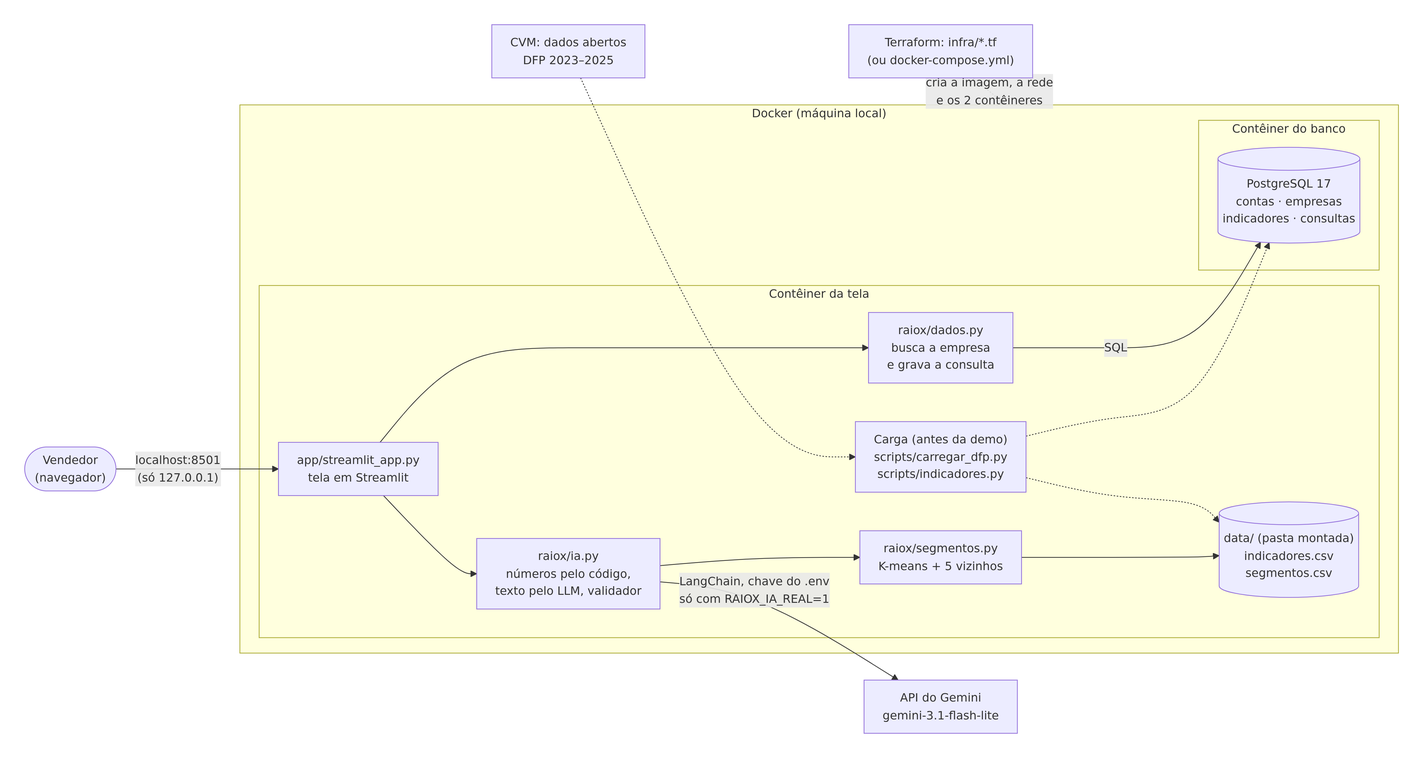
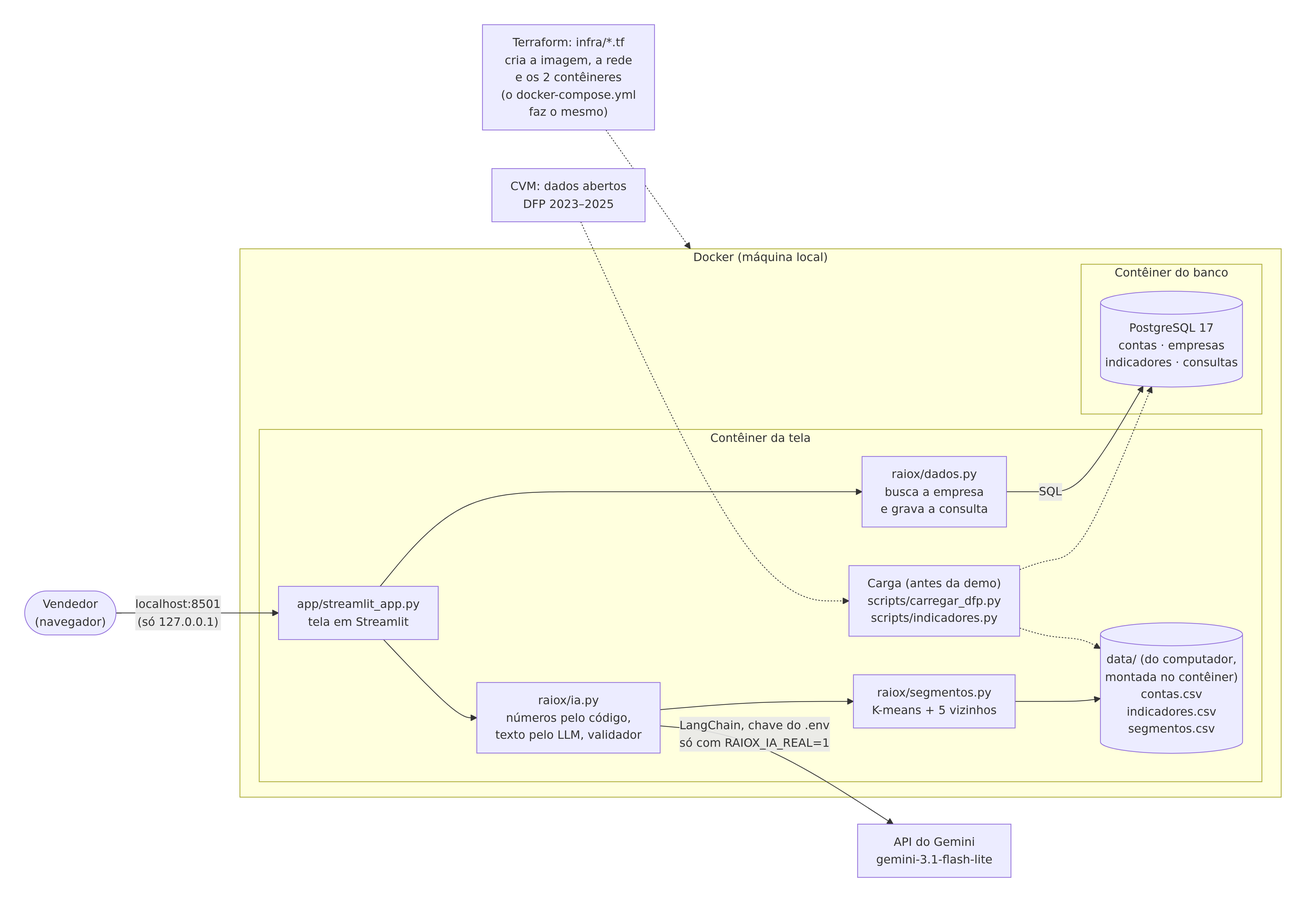
Achados do revisor no PR #55: seta do Terraform visível, data/ como pasta do computador, Terraform como a infraestrutura exigida, R9 em 🟡; issues #56 e #57

Changed region(s): [[0.0312, 0.0309, 0.9983, 0.9898], [0.8424, 0.464, 0.8736, 0.4949]]

diff --git a/docs/PLANO.md b/docs/PLANO.md
@@ -26,6 +26,8 @@ MA3, de 03/11, continuam abaixo). Na `main`: PRs #1 a #16, #19 a #41, o #46 (MA3
 **Aberto:** o #49 (Eduardo, rascunho do MA6) e o #55 (MG5, o PR desta nota).
 Issues abertas: #43, #45 e #50 (Eduardo; a #50: o validador deixa passar "dobrou", "triplicou", "um quarto") e **#53 (Marcos,
 achada pela EDA):** a escala errada no primeiro ano da base escapa da limpeza, e a NTS aparece com crescimento de +107.154%.
+Do revisor no #55 (MG5): **#56 (Miguel)**, a tela diz que os números vêm do PostgreSQL, mas vêm da `data/indicadores.csv`; e
+**#57 (Eduardo)**, os guias criam o ambiente com `python` ou `python3`, que pode não ser o 3.14.
 Testes na branch da MG5: 250 passed, nenhum pulado (Linux do Miguel, PostgreSQL do compose ligado, 04/11 ~21h).
 A versão longa desta seção, com o detalhe de cada PR até 03/11, ficou no Git: `git show 9f85bc9:docs/PLANO.md`.
 O resumo de cada dia está no [HISTORICO.md](HISTORICO.md).
@@ -78,17 +80,20 @@ O resumo de cada dia está no [HISTORICO.md](HISTORICO.md).
   conserto só pela receita não o pega. FASA, TRV XLIII e Azevedo & Travassos têm outros saltos; nenhum foi olhado na CVM ainda.
 - **MG5 (Miguel, PR #55, 04/11): a arquitetura no README** (`guia_projeto_final.pdf` §6: "README.md detalhando a arquitetura,
   pré-requisitos e instruções de execução"; §3, minutos 3–6). Seção "Arquitetura" com o diagrama em Mermaid (o GitHub desenha
-  sozinho): os 2 contêineres (tela com `app/` e `raiox/`; banco com o PostgreSQL 17), a `data/` montada, a API do Gemini, a CVM e
-  o Terraform (ou o compose) que cria tudo; linhas cheias a cada raio-x, tracejadas antes da demo; 6 frases embaixo. O mesmo
-  desenho em `docs/arquitetura.png` (4611×2457, gerado do bloco do README com o Mermaid 11.4.1), para o MA6 e o deck. Seção
-  "Pré-requisitos" com os 3 jeitos de rodar. **Conserto:** o README mandava `python -m venv`, mas no Linux do Miguel `python` não
-  existe e o `python3` é o 3.12; agora é `python3.14 -m venv .venv`. `tests/test_readme.py` (3 testes): o diagrama só cita arquivos
-  que existem e o modelo de `raiox/ia.py:28`; estragado de propósito, falha. **Não conferido:** o desenho do Mermaid na página
-  do GitHub e o "pronto quando" (um colega entender o fluxo lendo o README).
+  sozinho): os 2 contêineres (tela com `app/` e `raiox/`; banco com o PostgreSQL 17), a `data/` (pasta do computador montada na
+  tela), a API do Gemini, a CVM e o Terraform que cria tudo (o compose faz o mesmo); linhas cheias a cada raio-x, tracejadas
+  antes da demo; 6 frases embaixo. O mesmo desenho em `docs/arquitetura.png` (4231×2923, gerado do bloco do README com o
+  Mermaid 11.4.1), para o MA6 e o deck. Seção "Pré-requisitos" com os 3 jeitos de rodar, o Terraform como a infraestrutura
+  exigida (`requisitos_projeto.MD`, Aplicação). **Conserto:** o README mandava `python -m venv`, mas no Linux do Miguel `python`
+  não existe e o `python3` é o 3.12; agora é `python3.14 -m venv .venv` (os outros guias: #57). `tests/test_readme.py` (3 testes):
+  o diagrama só cita arquivos que existem e o modelo de `raiox/ia.py:28`; estragado de propósito, falha. **Revisor: ATENÇÃO**,
+  corrigido no PR: a seta do Terraform sumia sob o rótulo; a `data/` parecia dentro do Docker; "escolha um" lia o Terraform como
+  opcional; a referência de linha no HISTORICO. Fora do PR: #56 e #57. **Não conferido:** o desenho do Mermaid na página do
+  GitHub (por isso a R9 fica 🟡) e o "pronto quando" (um colega entender o fluxo lendo o README).
 - **Testes:** 250 passed, nenhum pulado (Linux do Miguel, com o PostgreSQL do compose ligado, branch da MG5, 04/11).
   No Windows do Marcos, 241 passed com `PYTHONUTF8=1` (03/11 ~12h, branch do #46); sem ele, 8 testes das travas falham: issue #45 (abaixo).
 - **Textos-base prontos:** `docs/justificativa.md` (ED8; falta o Marcos ler) e `docs/etica.md` (base da NA5).
-- No Mac, o Terraform só acha o Docker com `export DOCKER_HOST=unix://$HOME/.docker/run/docker.sock` (`README.md:233`).
+- No Mac, o Terraform só acha o Docker com `export DOCKER_HOST=unix://$HOME/.docker/run/docker.sock` (`README.md:235`).
 
 ### MA3 (Marcos, 03/11): PR #46, que fechou as issues #42 e #17 (mesclado em 03/11)
 - **C1 e C2** (os 3 commits de 10h09 da branch `marcos-corrige-s1-s2`): a busca devolve só companhias ativas e com indicadores,
@@ -138,16 +143,17 @@ O resumo de cada dia está no [HISTORICO.md](HISTORICO.md).
   revisar o rascunho do MA6 do Eduardo (sáb 07/11) → trocar a citação do `raiox/limpeza.py` para a seção "Dados e limpeza" do
   `docs/documentacao.md` e tirar o `docs/Raio-X Comercial.pdf` (depois do MA6). Um PR pequeno, com o ok do Eduardo, tirando
   `verificar_automatico.py` e `yfinance` (cortados na seção 7) e o `scripts/graficos.py` (a EDA já cobre o que ele fazia); no mesmo
-  PR, sai a linha do `verificar_automatico.py` do README ("Como rodar", `README.md:267`). Ler a `docs/justificativa.md` (ED8).
+  PR, sai a linha do `verificar_automatico.py` do README ("Como rodar", `README.md:269`). Ler a `docs/justificativa.md` (ED8).
 - **Miguel:** ✅ MG4b (#47: #38, #39 e #44) → ✅ recarga da CVM no banco do compose (04/11, com o contorno da #48) → ✅ MG5 diagrama
-  e README (#55, 04/11; pedir a um colega que leia a seção "Arquitetura" e conferir o desenho na página do PR) → MG6 roteiro e
-  vídeo v0 (qui 05/11), gravado no Mac do Eduardo (o computador da banca). Avisar o grupo das mudanças em pastas comuns: `README.md`,
+  e README (#55, 04/11; pedir a um colega que leia a seção "Arquitetura" e conferir o desenho na página do PR) → **MG5b: issue
+  #56** (a frase da tela sobre a origem dos números; qui 05/11, antes do vídeo) → MG6 roteiro e vídeo v0 (qui 05/11), gravado no Mac do Eduardo (o computador da banca). Avisar o grupo das mudanças em pastas comuns: `README.md`,
   `docs/arquitetura.png` e `tests/test_readme.py` (MG5), `tests/test_tela.py` (MG4b) e, da MG4, `.env.example` e `aprender/`.
 - **Náthally (obrigatório):** NA3 ROI mínimo (até qui 05/11) → NA4 slide de métricas (o "7 de 10" com a explicação da S2; a
   Camil agora bate com a conferência dela em receita e crescimento, #46) → NA5 ética (base: `docs/etica.md`) → NA6 deck. Sugestões, se der tempo: seção 3.
 - **Eduardo:** ED13, a #43 (qua 04/11) → ED14, a #45 (travas no Windows, qui 05/11) → a #50 (validador e quantidade sem
   algarismo; regra de ouro, antes do congelamento) → refazer `python -m raiox.segmentos` e os PNG
-  com os dados do #46 → ED9 tag `v1.0` e ED11 (sex 06/11) → ED10 teste do zero (sáb 07/11) → **MA6** (agora dele): rascunho do
+  com os dados do #46 → ED9 tag `v1.0` e ED11 (sex 06/11) → **ED15: issue #57** (`python3.14 -m venv` no `CLAUDE.md` e no
+  `aprender/`, antes do teste do zero) → ED10 teste do zero (sáb 07/11) → **MA6** (agora dele): rascunho do
   `docs/documentacao.md` no sáb 07/11 para o Marcos revisar; final e PDF na seg 09/11. O "[PENDENTE: diagrama · MG5, Miguel]"
   da seção 5 do rascunho (#49) já pode usar o `docs/arquitetura.png` (depois do merge do #55).
   Mandar ao grupo a mensagem da revisão; perguntar ao professor a data da banca e as perguntas 2 e 3 do REQUISITOS;
@@ -253,7 +259,7 @@ Os comandos, um por um, estão em [aprender/COMANDOS.md](../aprender/COMANDOS.md
 | seg 02/11 (feriado) | ✅ ED12 na `main` (#30); ✅ ED8 adiantada (#31) | | ✅ MG4 adiantada (#36) | |
 | ter 03/11 | ✅ **demo ponta a ponta · tag `v0.1-demo`** (compose e Terraform no Mac); revisão geral (issues #42 a #44) | MA4 (atrasada); ✅ MA3: PR #46 (#42, #17) | ~~MG4~~ (feita em 02/11); ✅ MG4b adiantada (#47) | NA3 ROI mínimo |
 | qua 04/11 | **ED13: issue #43** (~30 min); ✅ ED8 (feita em 02/11) | ~~PR da MA3 e #17~~ (PR #46, 03/11); ✅ zip da `data/`; ✅ MA5 BPMN; ✅ MA4 EDA (atrasada; achou a #53) | ~~MG4b~~ (#47, merge em 04/11); recarga da CVM; ✅ MG5 arquitetura + README (#55) | NA4 slide de métricas |
-| qui 05/11 | só bugs; **ED14: issue #45** (travas no Windows) | ✅ MA3b (#51); ✅ MA5 (adiantada, 04/11); **MA4b: issue #53** | MG6 vídeo v0 | NA3 (prazo do ROI mínimo) |
+| qui 05/11 | só bugs; **ED14: issue #45** (travas no Windows) | ✅ MA3b (#51); ✅ MA5 (adiantada, 04/11); **MA4b: issue #53** | **MG5b: issue #56**; MG6 vídeo v0 | NA3 (prazo do ROI mínimo) |
 | sex 06/11 | **ED9: código congelado · tag `v1.0`**; ED11 avaliação final | | | |
 | sáb 07/11 | ED10 teste do zero; MA6 rascunho (`docs/documentacao.md`) | revisar o rascunho do MA6 | MG7 vídeo final na `v1.0` (no Mac do Eduardo) | NA5 ética |
 | dom 08/11 | **todos mandam o conteúdo dos slides à Náthally** | | | NA5 deck |
@@ -281,6 +287,7 @@ Os comandos, um por um, estão em [aprender/COMANDOS.md](../aprender/COMANDOS.md
 | ED11 | sex 06/11 | — | avaliação final na `v1.0` (só se a IA mudou depois do ED7) + ensaio de defesa | `resultados.csv` | Plan | 10 perguntas da banca respondidas sem consulta | PR |
 | ED13 | qua 04/11 | — | consertar a **issue #43**: a tela aberta antes de carregar a CVM não acha a empresa (cache de `_base()`, `raiox/ia.py:51`). Guia §5: "funciona de ponta a ponta?" | `raiox/ia.py`, `tests/test_raio_x.py` | Manual | o passo a passo da #43 gera o raio-x da WEG; teste novo com essa ordem | PR que fecha #43 |
 | ED14 | qui 05/11 | — | consertar a **issue #45**: no Windows, o `guarda.py` lê a saída do Git em cp1252 (`.claude/hooks/guarda.py:89`), bloqueia commit e merge com `”` ou emoji no diff, e 8 testes das travas falham. Guia §2: "agentic coding" | `.claude/hooks/guarda.py`, `tests/test_guarda.py` | Manual | no Windows do Marcos, sem `PYTHONUTF8`: `python -m pytest -q tests/test_guarda.py` sem falhas e um commit com `”` no diff passa pela trava | PR que fecha #45 |
+| ED15 | sex 06/11 | — | consertar a **issue #57**: o `CLAUDE.md:142` e o `aprender/entenda-o-projeto.md:167` mandam `python -m venv .venv` (no Linux do Miguel não existe `python`); o `aprender/COMANDOS.md:16` e os 3 atalhos `.command` usam `python3 -m venv`, que lá é o 3.12. O README já usa `python3.14` (#55). `requisitos_projeto.MD`, Documentação: "instruções para executar" | `CLAUDE.md` (ok no grupo), `aprender/` | Manual | os 6 lugares com `python3.14 -m venv .venv` (Windows: `py -3.14`); antes do ED10 (sáb 07/11) | PR que fecha #57 |
 | ED12 | sáb 31/10 | ✅ PR #30 (na `main` em 02/11) | travas do Claude Code (R14 e guia §2, agentic coding): `.claude/settings.json`, `.claude/hooks/guarda.py`, subagent `revisor`, import do `requisitos_projeto.MD` | `.claude/`, `CLAUDE.md`, `AGENTS.md`, `README.md`, `aprender/claude-code.md`, `tests/test_guarda.py` | Plan | testes verdes; o hook bloqueia de verdade numa sessão | `eduardo-claude-config` |
 
 ### Marcos (Claude Code)
@@ -306,6 +313,7 @@ Os comandos, um por um, estão em [aprender/COMANDOS.md](../aprender/COMANDOS.md
 | MG4 | dom 01–ter 03/11 | ✅ PR #36 (02/11): WEG, Embraer e Ambev geram o raio-x no contêiner, e as 3 consultas estão na `consultas`; 8 testes em `tests/test_tela.py`. Gemini de verdade conferido em 03/11 (WEG). Volta para o modo sem IA com o Gemini fora do ar conferida em 03/11 (chave inválida, WEG): funciona; os 2 problemas de aparência viraram a MG4b | tela com dados reais e **com o banco** (R Aplicação: banco de dados): `RAIOX_DADOS` (`falsos`/`real`) no lugar do `USAR_DADOS_FALSOS`, e com `real` a busca e o `registrar_consulta` usam o PostgreSQL (`raiox/dados.py`); volta sozinha para o modo sem IA, com aviso; `registrar_consulta` dentro do `try`; `tests/test_tela.py` | `app/`, `.env.example`, `tests/` | Plan | 3 empresas reais geram raio-x no contêiner, e cada consulta aparece na tabela `consultas` | PR (Eduardo) |
 | MG4b | qua 04/11 | ✅ PR #47 (03/11, adiantada): com a chave falsa, a WEG mostra o aviso curto e "Texto montado sem IA: o Gemini não respondeu."; 3 testes novos e o do rodapé em `tests/test_tela.py`; `docker compose ps` → `127.0.0.1:8501`. Junto: os avisos de banco vazio e desligado citam o Terraform | consertar as issues **#38** (o aviso de falha da IA mostra o JSON inteiro do Google), **#39** (o topo diz "Texto escrito pelo Gemini" quando o texto foi montado sem IA) e **#44** (o compose abre a tela para a rede toda: `127.0.0.1:8501:8501`, como o Terraform), achadas pelo Eduardo em 03/11. Guia §5: "a interface é amigável ao usuário?" (protótipo, 20%) | `app/streamlit_app.py`, `tests/test_tela.py`, `docker-compose.yml` | Manual | com `GOOGLE_API_KEY=chave-falsa-teste RAIOX_IA_REAL=1 docker compose up -d --build`, a WEG mostra um aviso curto e o topo não diz "escrito pelo Gemini"; teste novo para cada issue; `docker ps` mostra `127.0.0.1:8501`; antes do vídeo v0 (MG6) e do congelamento (sex 06/11) | PR que fecha #38, #39 e #44 |
 | MG5 | qua 04/11 | ✅ PR #55 (04/11): seção "Arquitetura" no README (diagrama em Mermaid + 6 frases), `docs/arquitetura.png`, seção "Pré-requisitos", `python3.14 -m venv`; 3 testes em `tests/test_readme.py`. Falta um colega ler o README (o "pronto quando") | diagrama de arquitetura + README (tema, objetivo e tecnologias já estão; pré-requisitos com Python 3.14; rodar local, Docker e Terraform) | `docs/arquitetura.png`, `README.md` | Manual | um colega entende o fluxo lendo o README; o README cobre o que o R pede em "Documentação" | PR |
+| MG5b | qui 05/11 | — | consertar a **issue #56**: com os dados reais, a tela diz "Empresas e números da CVM (DFP), buscados no banco PostgreSQL." (`app/streamlit_app.py:71`), mas os números vêm da `data/indicadores.csv`; só a busca e o registro usam o banco. Achada pelo `revisor` no #55. Guia §3 (a frase aparece na demo) e §2, "Governança e Ética" (confiabilidade) | `app/streamlit_app.py`, `tests/test_tela.py` (se algum teste procura o texto) | Manual | a legenda diz de onde vem cada coisa, igual ao README ("Arquitetura"); tela aberta depois da mudança; antes do vídeo v0 (MG6) e do congelamento (sex 06/11) | PR que fecha #56 |
 | MG6 | qui 05/11 | — | roteiro de 6 min da demo + vídeo v0 | — | — | vídeo salvo em 2 lugares | — |
 | MG7 | sáb 07/11 | — | vídeo final na `v1.0` | — | — | vídeo salvo em 2 lugares | — |
 

diff --git a/docs/REQUISITOS.md b/docs/REQUISITOS.md
@@ -47,7 +47,7 @@ Valem como os arquivos do professor. Quem ouvir uma regra nova em aula escreve a
 | R6b | Justificar RAG × fine-tuning, chains e memória (dica do guia; G §6 pede a justificativa técnica no documento) | `docs/justificativa.md`, seções 3 e 4 (ED8, PR #31, 02/11) | ✅ texto pronto, com arquivo e linha em cada afirmação; falta entrar no `documentacao.pdf` (MA6) e o Marcos ler | Eduardo | `grep -n "^## " docs/justificativa.md` | seção do PDF e minutos 12–16 da apresentação | ED8, ED11 |
 | R7 | Interface funcional (G §2; R Aplicação: web ou mobile) | `app/streamlit_app.py` | ✅ MG4 (PR #36, 02/11): com a `data/` real, a busca e o registro da consulta usam o PostgreSQL, sem o aviso de "inventados" (mesma regra do raio-x: `usando_falsos()`, de `raiox/segmentos.py`); se o Gemini falhar, a tela monta o texto sem IA e avisa (conferido em 03/11 com chave inválida, WEG). Desde a MG4b (PR #47, 03/11; issues #38 e #39), o aviso tem uma frase, o erro técnico fica em "Detalhes técnicos" e no log, e o topo e o rodapé só dizem que a IA escreveu quando o Gemini respondeu (conferido com a chave falsa, WEG, 0 tokens); banco desligado ou vazio vira mensagem com o que fazer, pelo compose ou pelo Terraform. Conferido no Docker, sem IA: WEG, Embraer e Ambev. **Conferido em parte:** a volta para o modo sem IA com o Gemini de verdade e chave inválida (03/11, erro na hora); com a rede travada (~30 s), só o teste. O roteiro da demo é a MG6. **Bug (03/11):** a tela aberta antes de carregar a CVM não acha a empresa até reiniciar (issue #43, ED13). **Bug (04/11):** no Linux, depois da recarga com o #46, a tela não lê a `data/indicadores.csv` (permissão só do dono) e nenhum raio-x sai; contorno `chmod 644 data/indicadores.csv` (issue #48; com ele, a Camil saiu certa na tela do Miguel). **Consertado no PR #51 (MA3b, na `main` em 04/11):** `chmod(0o644)` em `publicar()` e `test_publicar_deixa_o_csv_legivel_para_outros_usuarios`; conferido pelo Miguel no Linux (relato dele), #48 fechada | Miguel | `grep -n "DADOS_FALSOS =" app/streamlit_app.py` → `usando_falsos()`; `python -m pytest -q tests/test_tela.py` → 11 passed | demo ao vivo de 6 min | MG4, MG4b, MG6 |
 | R8 | Código com boas práticas e agentic coding | `tests/`, `contratos.md`, `REGRAS-IA.md`, `CLAUDE.md`, PRs revisados | ✅ CI, versões fixas, config do pytest, `AGENTS.md` e modelo de PR na `main` desde o #3; CI verde nos merges dos #3 a #6; guia do Claude Code e skills do time no #8; `/inicio-de-sessao`, `/fim-de-sessao` com merge e `docs/HISTORICO.md` no #14; CI com PostgreSQL no #22; o check `testes` é obrigatório na `main` (MG1, conferido em 30/10); travas do Claude Code (permissões, 3 hooks, subagent `revisor`) e conferência do repositório no CI no #30 (na `main` em 02/11); seção "Como usamos IA para programar" no README no #31 | todos (coordena Eduardo) | `gh pr list --state all`; `gh run list`; `python -m pytest -q tests/test_guarda.py` | PRs com checklist, CI verde, seção no README | ED0, ED2, ED6, ED8, ED12 |
-| R9 | Arquitetura + **infraestrutura automatizada com Terraform** (local ou nuvem): obrigatória (R Aplicação; G §2 e §6) | `infra/*.tf` (Terraform, PR #29, MG3): `terraform apply` constrói a imagem e sobe a tela e o PostgreSQL no Docker local, como o `docker-compose.yml` (PR #24, MG2) | ✅ **o Terraform está na `main`** (#29, 31/10): os 2 contêineres `healthy`, 87 passed dentro da tela, `destroy` + `apply` mantém o banco e a `data/`, 2º `plan` sem mudanças, a chave fora do `terraform.tfstate`; o CI confere `fmt` e `validate`. IA pelo Terraform: o Miguel viu o texto do Gemini. **No Mac (Eduardo, 03/11):** portas padrão, 2 `healthy`, 212 passed no contêiner, `destroy` + `apply` mantém as 2.567 empresas, 2º `plan` → "No changes" (precisa do `DOCKER_HOST`, `README.md:233`). **No Linux do Miguel (03/11, Claude Code):** a tela nova da MG4 pelo Terraform gera a WEG e grava a consulta no `raiox-banco` (R13). O compose também publica a tela só em `127.0.0.1`, como o Terraform, desde a MG4b (#47). **Diagrama da arquitetura (MG5, PR #55, 04/11):** seção "Arquitetura" do README (Mermaid, que o GitHub desenha) e `docs/arquitetura.png` para o PDF e o deck: os 2 contêineres, a `data/`, o Gemini, a CVM e o Terraform que cria tudo; `tests/test_readme.py` confere que ele só cita arquivos que existem. Não conferido: o desenho na página do GitHub | Miguel | `git ls-files infra \| grep '\.tf$'` → 5 arquivos; dentro de `infra/`, `terraform apply` e depois `terraform plan` → "No changes"; `docker exec raiox-tela python -m pytest -q`; `python -m pytest -q tests/test_readme.py` → 3 passed | `terraform apply` subindo a tela e o banco, diagrama, `docker compose up` | MG2, MG3, MG5 |
+| R9 | Arquitetura + **infraestrutura automatizada com Terraform** (local ou nuvem): obrigatória (R Aplicação; G §2 e §6) | `infra/*.tf` (Terraform, PR #29, MG3): `terraform apply` constrói a imagem e sobe a tela e o PostgreSQL no Docker local, como o `docker-compose.yml` (PR #24, MG2) | 🟡 **o Terraform está na `main`** (#29, 31/10): os 2 contêineres `healthy`, 87 passed dentro da tela, `destroy` + `apply` mantém o banco e a `data/`, 2º `plan` sem mudanças, a chave fora do `terraform.tfstate`; o CI confere `fmt` e `validate`. IA pelo Terraform: o Miguel viu o texto do Gemini. **No Mac (Eduardo, 03/11):** portas padrão, 2 `healthy`, 212 passed no contêiner, `destroy` + `apply` mantém as 2.567 empresas, 2º `plan` → "No changes" (precisa do `DOCKER_HOST`, `README.md:235`). **No Linux do Miguel (03/11, Claude Code):** a tela nova da MG4 pelo Terraform gera a WEG e grava a consulta no `raiox-banco` (R13). O compose também publica a tela só em `127.0.0.1`, como o Terraform, desde a MG4b (#47). **Diagrama da arquitetura (MG5, PR #55, 04/11):** seção "Arquitetura" do README (Mermaid, que o GitHub desenha) e `docs/arquitetura.png` para o PDF e o deck: os 2 contêineres, a `data/`, o Gemini, a CVM e o Terraform que cria tudo; `tests/test_readme.py` confere que ele só cita arquivos que existem. Falta abrir o desenho do Mermaid na página do GitHub (o PNG foi conferido); com isso, ✅ | Miguel | `git ls-files infra \| grep '\.tf$'` → 5 arquivos; dentro de `infra/`, `terraform apply` e depois `terraform plan` → "No changes"; `docker exec raiox-tela python -m pytest -q`; `python -m pytest -q tests/test_readme.py` → 3 passed | `terraform apply` subindo a tela e o banco, diagrama, `docker compose up` | MG2, MG3, MG5 |
 | R10 | Governança e ética (viabilidade, limites, viés, confiabilidade, uso responsável) | validador; auditoria de dados que só aponta; aviso "não é recomendação de investimento" na tela; `REGRAS-IA.md` §6 | 🟡 base técnica em `docs/etica.md` (03/11, Eduardo com o Claude Code): alucinação, viés do K-means, confiabilidade (7 de 10), uso responsável; falta a Náthally reescrever e completar a viabilidade (NA5). Segurança: desde a MG4b (PR #47, issue #44), o compose publica a tela só em `127.0.0.1`, como o Terraform; antes, qualquer um na mesma rede abria a tela e, com a IA ligada, gastava crédito. Transparência: a tela diz quando o texto saiu sem IA (#39) | Náthally + todos | `grep -n "investimento" app/streamlit_app.py`; `docker compose ps` → `127.0.0.1:8501->8501/tcp`; nenhuma chave do Gemini em todo o histórico do Git: `git log --all -p \| grep -cE 'AIza[0-9A-Za-z_-]{35}'` → 0 (29/10) | seção do PDF, minutos 16–18 da apresentação, métricas | NA5, ED8, MG4, MG4b |
 | R11 | Valor de negócio e ROI | persona, roteiro, pitch e comparação de LLMs em `docs/produto/` (na `main` desde o #5) | 🟡 falta o ROI mínimo (NA3: 1 raio-x montado à mão e cronometrado, contra os ~2 s da ferramenta); o `tempo_manual.csv` com 3 empresas virou sugestão | Náthally | `ls docs/produto` | minutos 0–3 da apresentação, com o tempo medido | NA1, NA3 |
 | R12 | Métricas de sucesso | `avaliacao/casos_avaliacao.csv` com 10 casos no formato C4 (#5) e `avaliacao/avaliar.py` (#6) | 🟡 ED7 feita (29/10, PR #20): `avaliacao/resultados.csv` com os 10 casos, 0 erros, 0 removidos, US$ 0,0118 no total (≈ US$ 0,0012 por caso), 2,2 s por caso; na conferência manual da Náthally (29/10), 7 de 10 batem com o RI (segundo a S2 do Marcos, no #46, Magalu e RD Saúde batem com a DFP: a diferença parece vir da fonte da conferência manual; a Camil foi consertada no #46, issue #17: receita R$ 11,1 bi e −1,2%, os números da conferência dela); falta o slide de métricas (NA4, com os números do `resultados.csv`); a `revisao.csv` da Náthally virou sugestão | Náthally + Eduardo | `python -m avaliacao.avaliar` (sem IA) roda os 10 casos sem erro; `wc -l avaliacao/resultados.csv`; `test_casos_avaliacao_do_repositorio_segue_o_c4` | `resultados.csv` e o acerto 7 de 10 num slide (a `revisao.csv` é sugestão) | NA2, ED5, ED7, NA4, ED11 |

diff --git a/README.md b/README.md
@@ -36,7 +36,7 @@ O que o projeto precisa ter vem dos arquivos do professor, em [docs/professor/](
 %% Mudou o diagrama? Gere de novo o docs/arquitetura.png: cole este bloco em mermaid.live e exporte em PNG.
 flowchart LR
     vendedor(["Vendedor<br/>(navegador)"])
-    iac["Terraform: infra/*.tf<br/>(ou docker-compose.yml)"]
+    iac["Terraform: infra/*.tf<br/>cria a imagem, a rede<br/>e os 2 contêineres<br/>(o docker-compose.yml<br/>faz o mesmo)"]
 
     subgraph pc["Docker (máquina local)"]
         subgraph tela["Contêiner da tela"]
@@ -44,7 +44,7 @@ flowchart LR
             dados["raiox/dados.py<br/>busca a empresa<br/>e grava a consulta"]
             ia["raiox/ia.py<br/>números pelo código,<br/>texto pelo LLM, validador"]
             seg["raiox/segmentos.py<br/>K-means + 5 vizinhos"]
-            pasta[("data/ (pasta montada)<br/>indicadores.csv<br/>segmentos.csv")]
+            pasta[("data/ (do computador,<br/>montada no contêiner)<br/>contas.csv<br/>indicadores.csv<br/>segmentos.csv")]
             carga["Carga (antes da demo)<br/>scripts/carregar_dfp.py<br/>scripts/indicadores.py"]
         end
         subgraph banco["Contêiner do banco"]
@@ -65,7 +65,7 @@ flowchart LR
     ia --> seg
     seg --> pasta
     ia -- "LangChain, chave do .env<br/>só com RAIOX_IA_REAL=1" --> gemini
-    iac -. "cria a imagem, a rede<br/>e os 2 contêineres" .-> pc
+    iac -..-> pc
 ```
 
 Linhas cheias: o que acontece a cada raio-x. Tracejadas: o que acontece antes da demo (subir a infraestrutura e carregar os
@@ -74,14 +74,15 @@ dados da CVM). A mesma figura em PNG, para o documento e os slides: [docs/arquit
 - **Dois contêineres.** O da tela roda o Streamlit (a interface, o frontend) e o `raiox/` (o backend: busca, K-means, IA e
   validador) no mesmo processo Python; o do banco roda o PostgreSQL 17. O professor aceitou o Streamlit como backend e frontend,
   em 2 contêineres ([docs/REQUISITOS.md](docs/REQUISITOS.md), "Regras do professor").
-- **Quem cria os dois:** o Terraform (`infra/*.tf`, com o provider `kreuzwerker/docker`) ou o `docker-compose.yml`. Os dois
-  descrevem a mesma coisa: a imagem da tela (o `Dockerfile`), a rede entre os contêineres, as portas e as pastas montadas.
-  Use um de cada vez, porque usam as mesmas portas.
+- **Quem cria os dois:** o Terraform (`infra/*.tf`, com o provider `kreuzwerker/docker`), a infraestrutura automatizada que o
+  `requisitos_projeto.MD` exige (Aplicação). O `docker-compose.yml` sobe a mesma coisa com um comando: a imagem da tela (o
+  `Dockerfile`), a rede entre os contêineres, as portas e as pastas montadas. Use um de cada vez, porque usam as mesmas portas.
 - **Onde ficam os dados:** a busca da empresa e o registro de cada consulta usam o PostgreSQL (`raiox/dados.py`); os números do
   raio-x e os grupos do K-means vêm da `data/`. A carga (que roda com a imagem da tela) grava os indicadores nos dois lugares,
   a tabela `indicadores` e o `indicadores.csv`; o `raiox/segmentos.py` faz o `segmentos.csv` a partir dele e o refaz quando ele
-  fica mais velho que os dados. O banco fica num volume do Docker e a `data/` é uma pasta do seu computador: os dois
-  continuam depois do `docker compose down` e do `terraform destroy`.
+  fica mais velho que os dados (se a `data/` não aceitar gravação, os grupos ficam só na memória, com um aviso no log). O banco
+  fica num volume do Docker e a `data/` é uma pasta do seu computador, montada no contêiner da tela: os dois continuam depois
+  do `docker compose down` e do `terraform destroy`.
 - **O que sai do computador:** a carga baixa os arquivos públicos da CVM (uma vez, antes da demo), e o raio-x com IA chama a API
   do Gemini (só com `RAIOX_IA_REAL=1`). Sem a IA, ou com o Gemini fora do ar, a tela monta o texto sem IA e avisa (o plano B da demo).
 - **Segurança:** a tela e o banco só abrem no próprio computador (`127.0.0.1`); a chave do Gemini fica no `.env`, fora do Git,
@@ -175,12 +176,13 @@ Na raiz: `contratos.md`, `REGRAS-IA.md` (regras do time para uso de IA), `CLAUDE
 
 ## Pré-requisitos
 
-Há três jeitos de rodar. Escolha um:
+Há três jeitos de rodar. A infraestrutura que o professor exige é a do Terraform (`requisitos_projeto.MD`, Aplicação:
+"Infraestrutura automatizada com Terraform"); o compose sobe a mesma coisa pelo caminho mais curto; sem Docker é para programar.
 
 | jeito | precisa de | confira com |
 |---|---|---|
-| Docker (o mais curto) | Docker com o Compose | `docker compose version` |
-| Terraform (a infraestrutura automatizada) | Docker e Terraform 1.5 ou mais novo | `terraform version` |
+| Terraform (a infraestrutura automatizada) | Docker e Terraform 1.x, do 1.5 em diante | `terraform version` |
+| Docker Compose (o mais curto) | Docker com o Compose | `docker compose version` |
 | sem Docker | Python 3.14 e PostgreSQL (o CI e o Docker usam o 17) | `python3.14 --version` (Windows: `py -3.14 --version`), `psql --version` |
 
 Os três precisam também do Git, de internet na carga dos dados da CVM e, só para o raio-x com IA, de uma chave do Gemini no `.env`

diff --git a/docs/HISTORICO.md b/docs/HISTORICO.md
@@ -75,7 +75,7 @@ número do PR) e, se houve, a decisão na tabela de decisões. Sem detalhe técn
   pelo grupo no Google Docs) foi desfeito pelo #35, e a branch antiga `docs-docker-e-terraform` foi apagada (a MG2 e a MG3 já a cobriam).
 - **03/11** · **Demo ponta a ponta no Mac do Eduardo** e tag `v0.1-demo` (no merge do #36): Vale, Embraer e Ambev sem IA e WEG com o
   Gemini (US$ 0,0011), todas gravadas na `consultas`. O **Terraform** sobe pela 1ª vez num Mac, nas portas padrão, e o banco sobrevive ao
-  `destroy` + `apply`. No Mac, o Terraform só acha o Docker com o `DOCKER_HOST` (`README.md:158`).
+  `destroy` + `apply`. No Mac, o Terraform só acha o Docker com o `DOCKER_HOST` (`README.md:235`).
 - **03/11** · O Eduardo testa a tela com o Gemini fora do ar (chave falsa): o plano B funciona; 2 problemas de aparência viram as
   issues #38 e #39 (Miguel, MG4b). Entra `docs/etica.md`, a base técnica da ética para a Náthally (PR `eduardo-etica`).
 - **03/11** · **Revisão geral** (Eduardo com o Claude Code): a MA3 do Marcos estava pronta numa branch sem PR, e a nota dizia que
@@ -109,6 +109,8 @@ número do PR) e, se houve, a decisão na tabela de decisões. Sem detalhe técn
 - **04/11** · **MG5** (Miguel, PR #55): o README ganhou a seção "Arquitetura" (diagrama dos 2 contêineres, da `data/`, do Gemini,
   da CVM e do Terraform) e a de "Pré-requisitos"; a mesma figura está em `docs/arquitetura.png` para o documento e o deck. Achado
   no caminho: o README mandava `python -m venv`, que não funciona no Linux do Miguel (lá, `python3` é o 3.12); agora é `python3.14`.
+  O `revisor` achou mais 2 erros fora do PR: a tela diz que os números vêm do banco (#56, Miguel) e os outros guias têm o mesmo
+  `venv` (#57, Eduardo).
 
 ## Decisões (e por quê)
 
